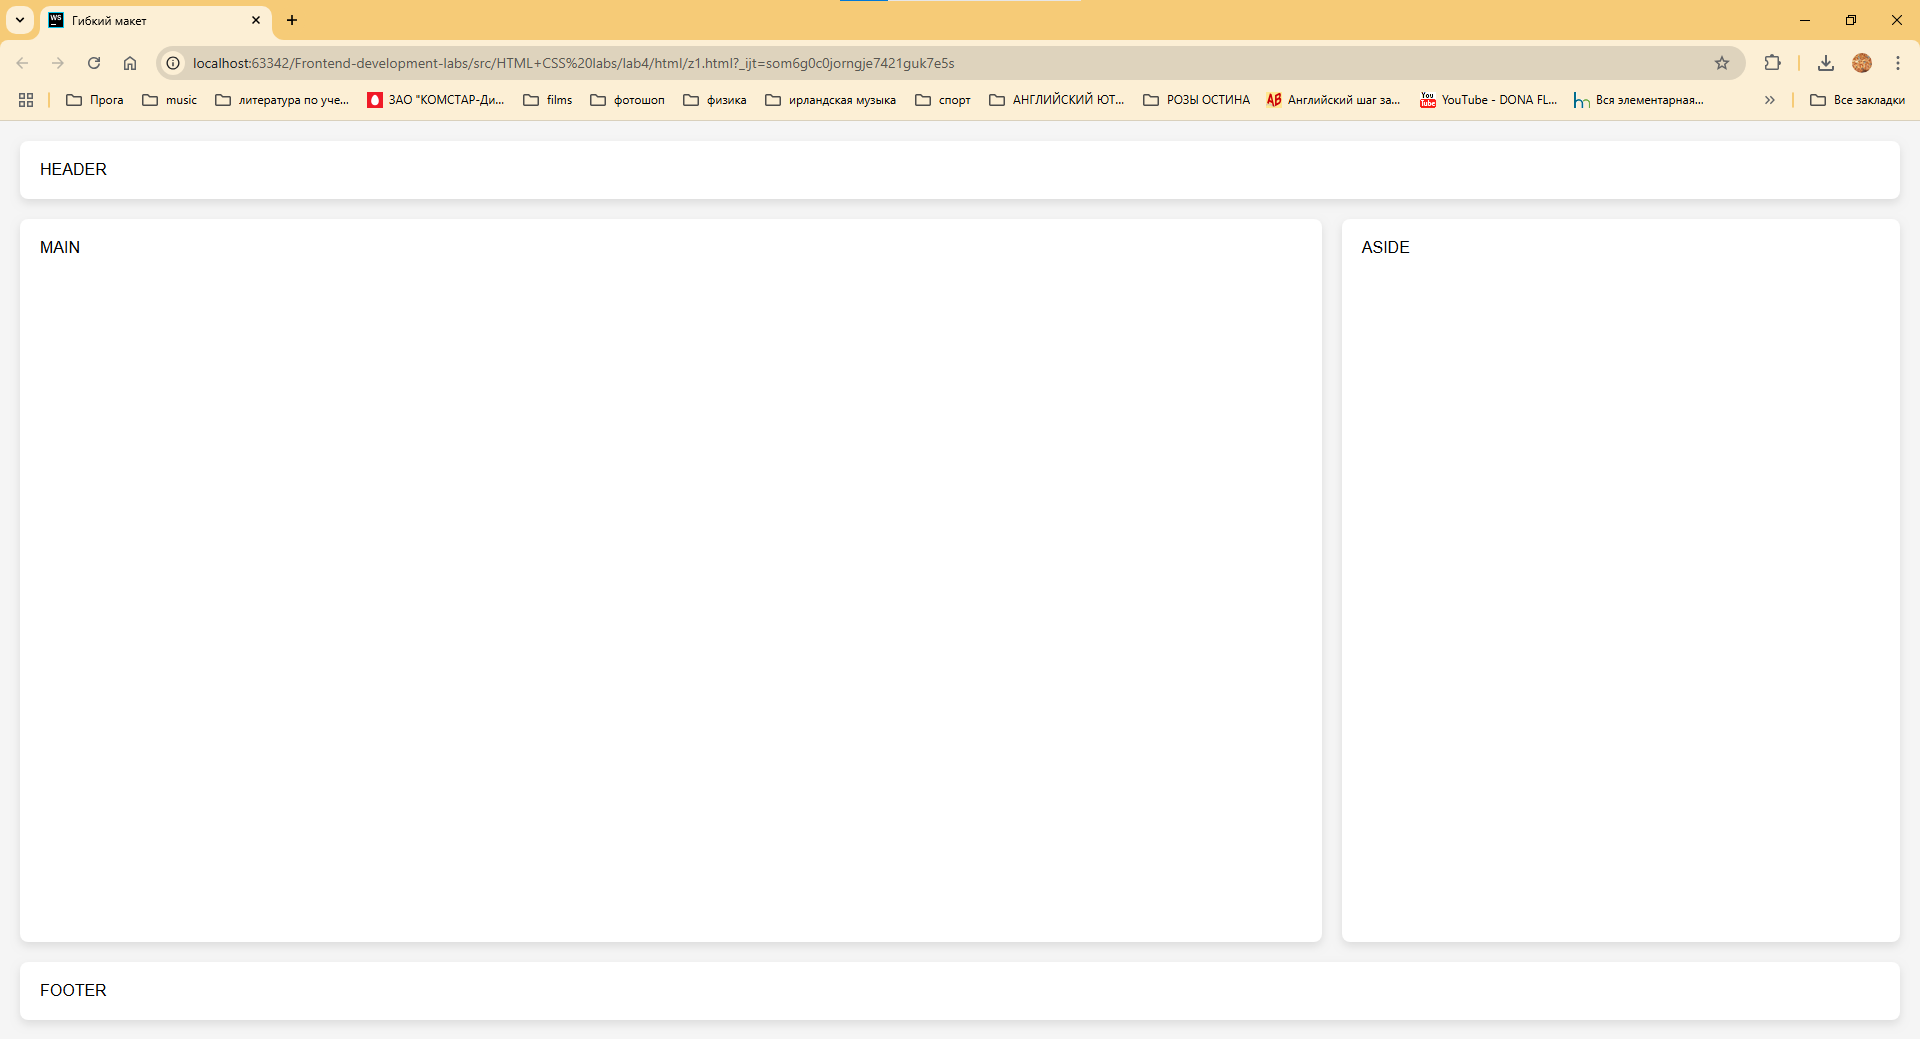
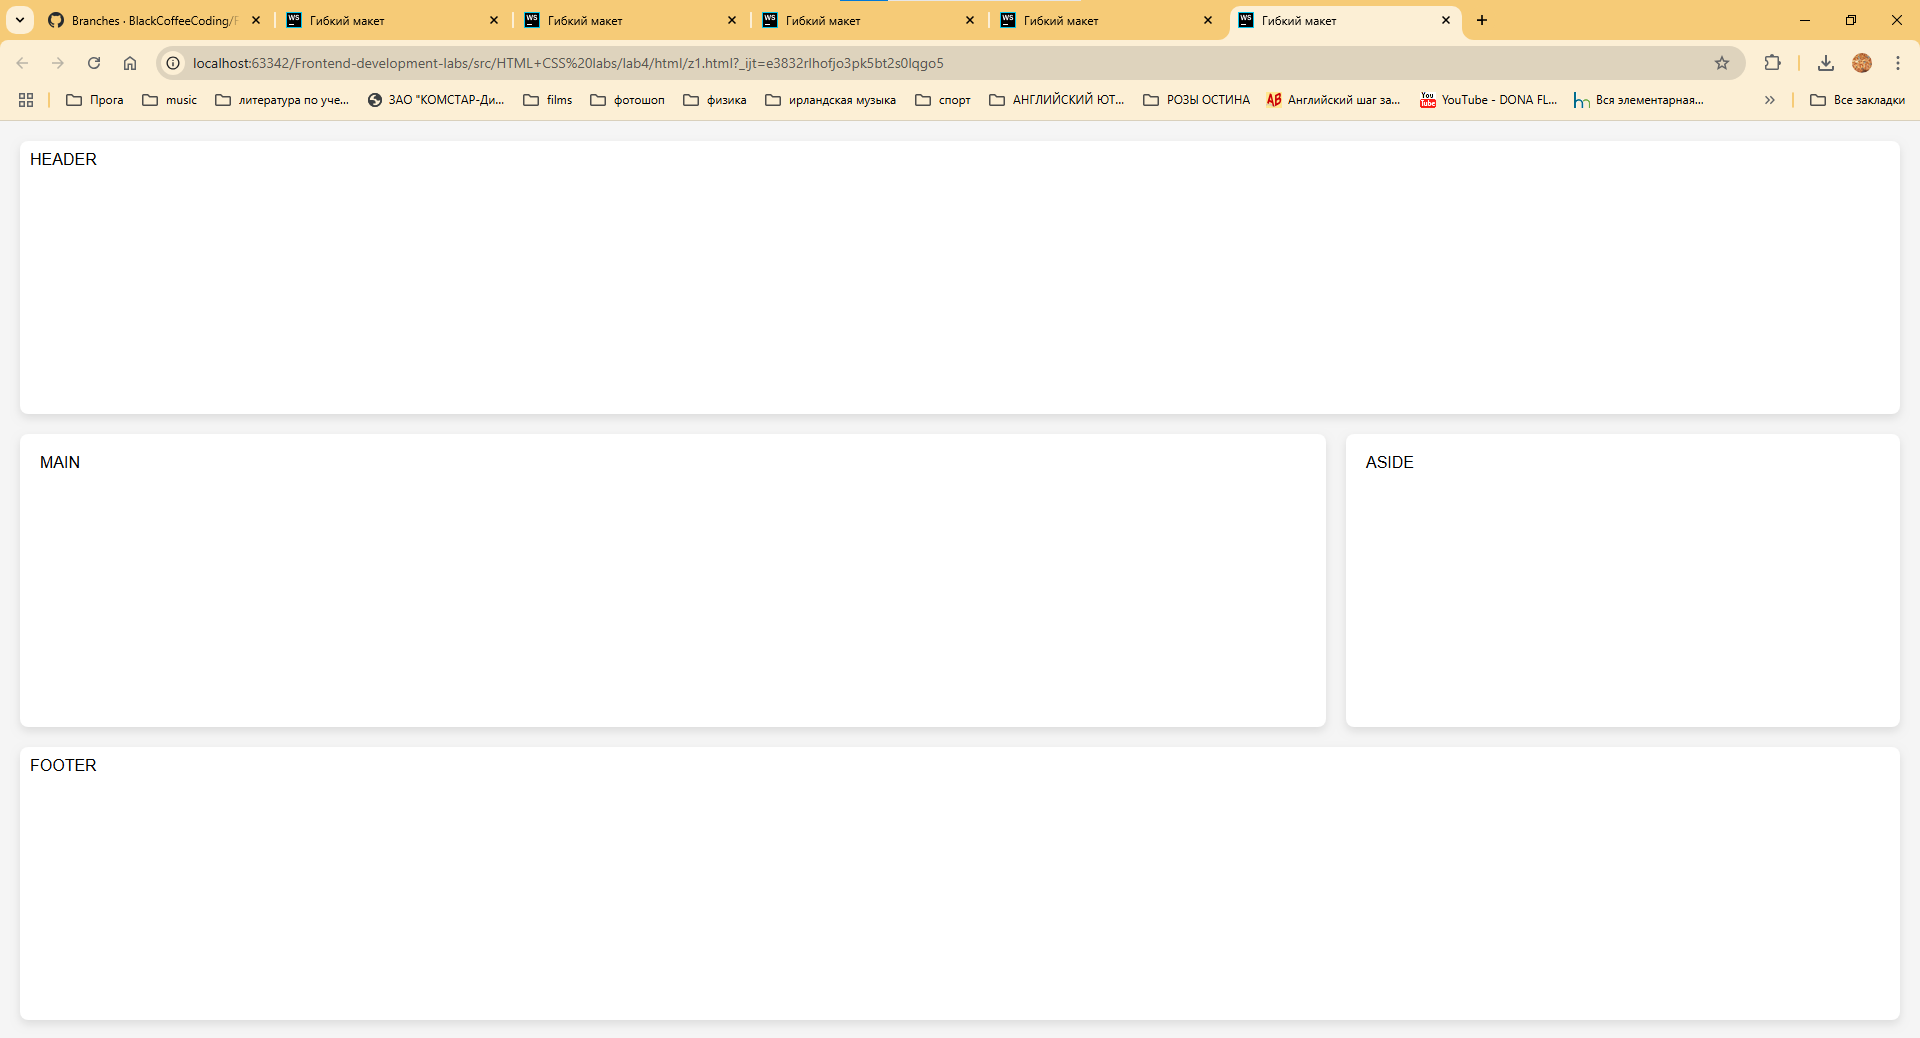
HTML+CSS lab4 fixed

diff --git a/src/HTML+CSS labs/lab4/css/z1.css b/src/HTML+CSS labs/lab4/css/z1.css
@@ -1,15 +1,16 @@
 * {
     box-sizing: border-box;
 }
+
 body {
     display: flex;
-    flex-direction: column;
-    min-height: 100vh;
-    margin: 0;
-    font-family: sans-serif;
+    flex-wrap: wrap;
     gap: 20px;
     padding: 20px;
+    margin: 0;
+    min-height: 100vh;
     background-color: #f5f5f5;
+    font-family: sans-serif;
 }
 
 header, main, aside, footer {
@@ -19,16 +20,15 @@ header, main, aside, footer {
     border-radius: 8px;
 }
 
-.content {
-    display: flex;
-    flex: 1 1 auto;
-    gap: 20px;
+header,
+footer {
+    flex: 0 0 100%;
 }
 
 main {
-    flex: 2 1 70%;
+    flex: 0 0 calc(70% - 10px);
 }
 
 aside {
-    flex: 1 1 30%;
+    flex: 0 0 calc(30% - 10px);
 }

diff --git a/src/HTML+CSS labs/lab4/html/z1.html b/src/HTML+CSS labs/lab4/html/z1.html
@@ -7,10 +7,8 @@
 </head>
 <body>
 <header>HEADER</header>
-<div class="content">
-    <main>MAIN</main>
-    <aside>ASIDE</aside>
-</div>
+<main>MAIN</main>
+<aside>ASIDE</aside>
 <footer>FOOTER</footer>
 </body>
 </html>

diff --git a/src/HTML+CSS labs/lab4/css/z5.css b/src/HTML+CSS labs/lab4/css/z5.css
@@ -80,3 +80,9 @@ body {
     flex: 1 1 calc(33.333% - 20px);
     box-sizing: border-box;
 }
+
+.placeholder {
+    visibility: hidden;
+    flex: 1 1 calc(33.333% - 20px);
+    box-sizing: border-box;
+}

diff --git a/src/HTML+CSS labs/lab4/html/z5.html b/src/HTML+CSS labs/lab4/html/z5.html
@@ -156,6 +156,7 @@
             corporis. Odio!</p>
         <a href="#">More interesting things about the thing</a>
     </div>
+    <div class="card placeholder"></div>
 </div>
 </body>
 </html>
